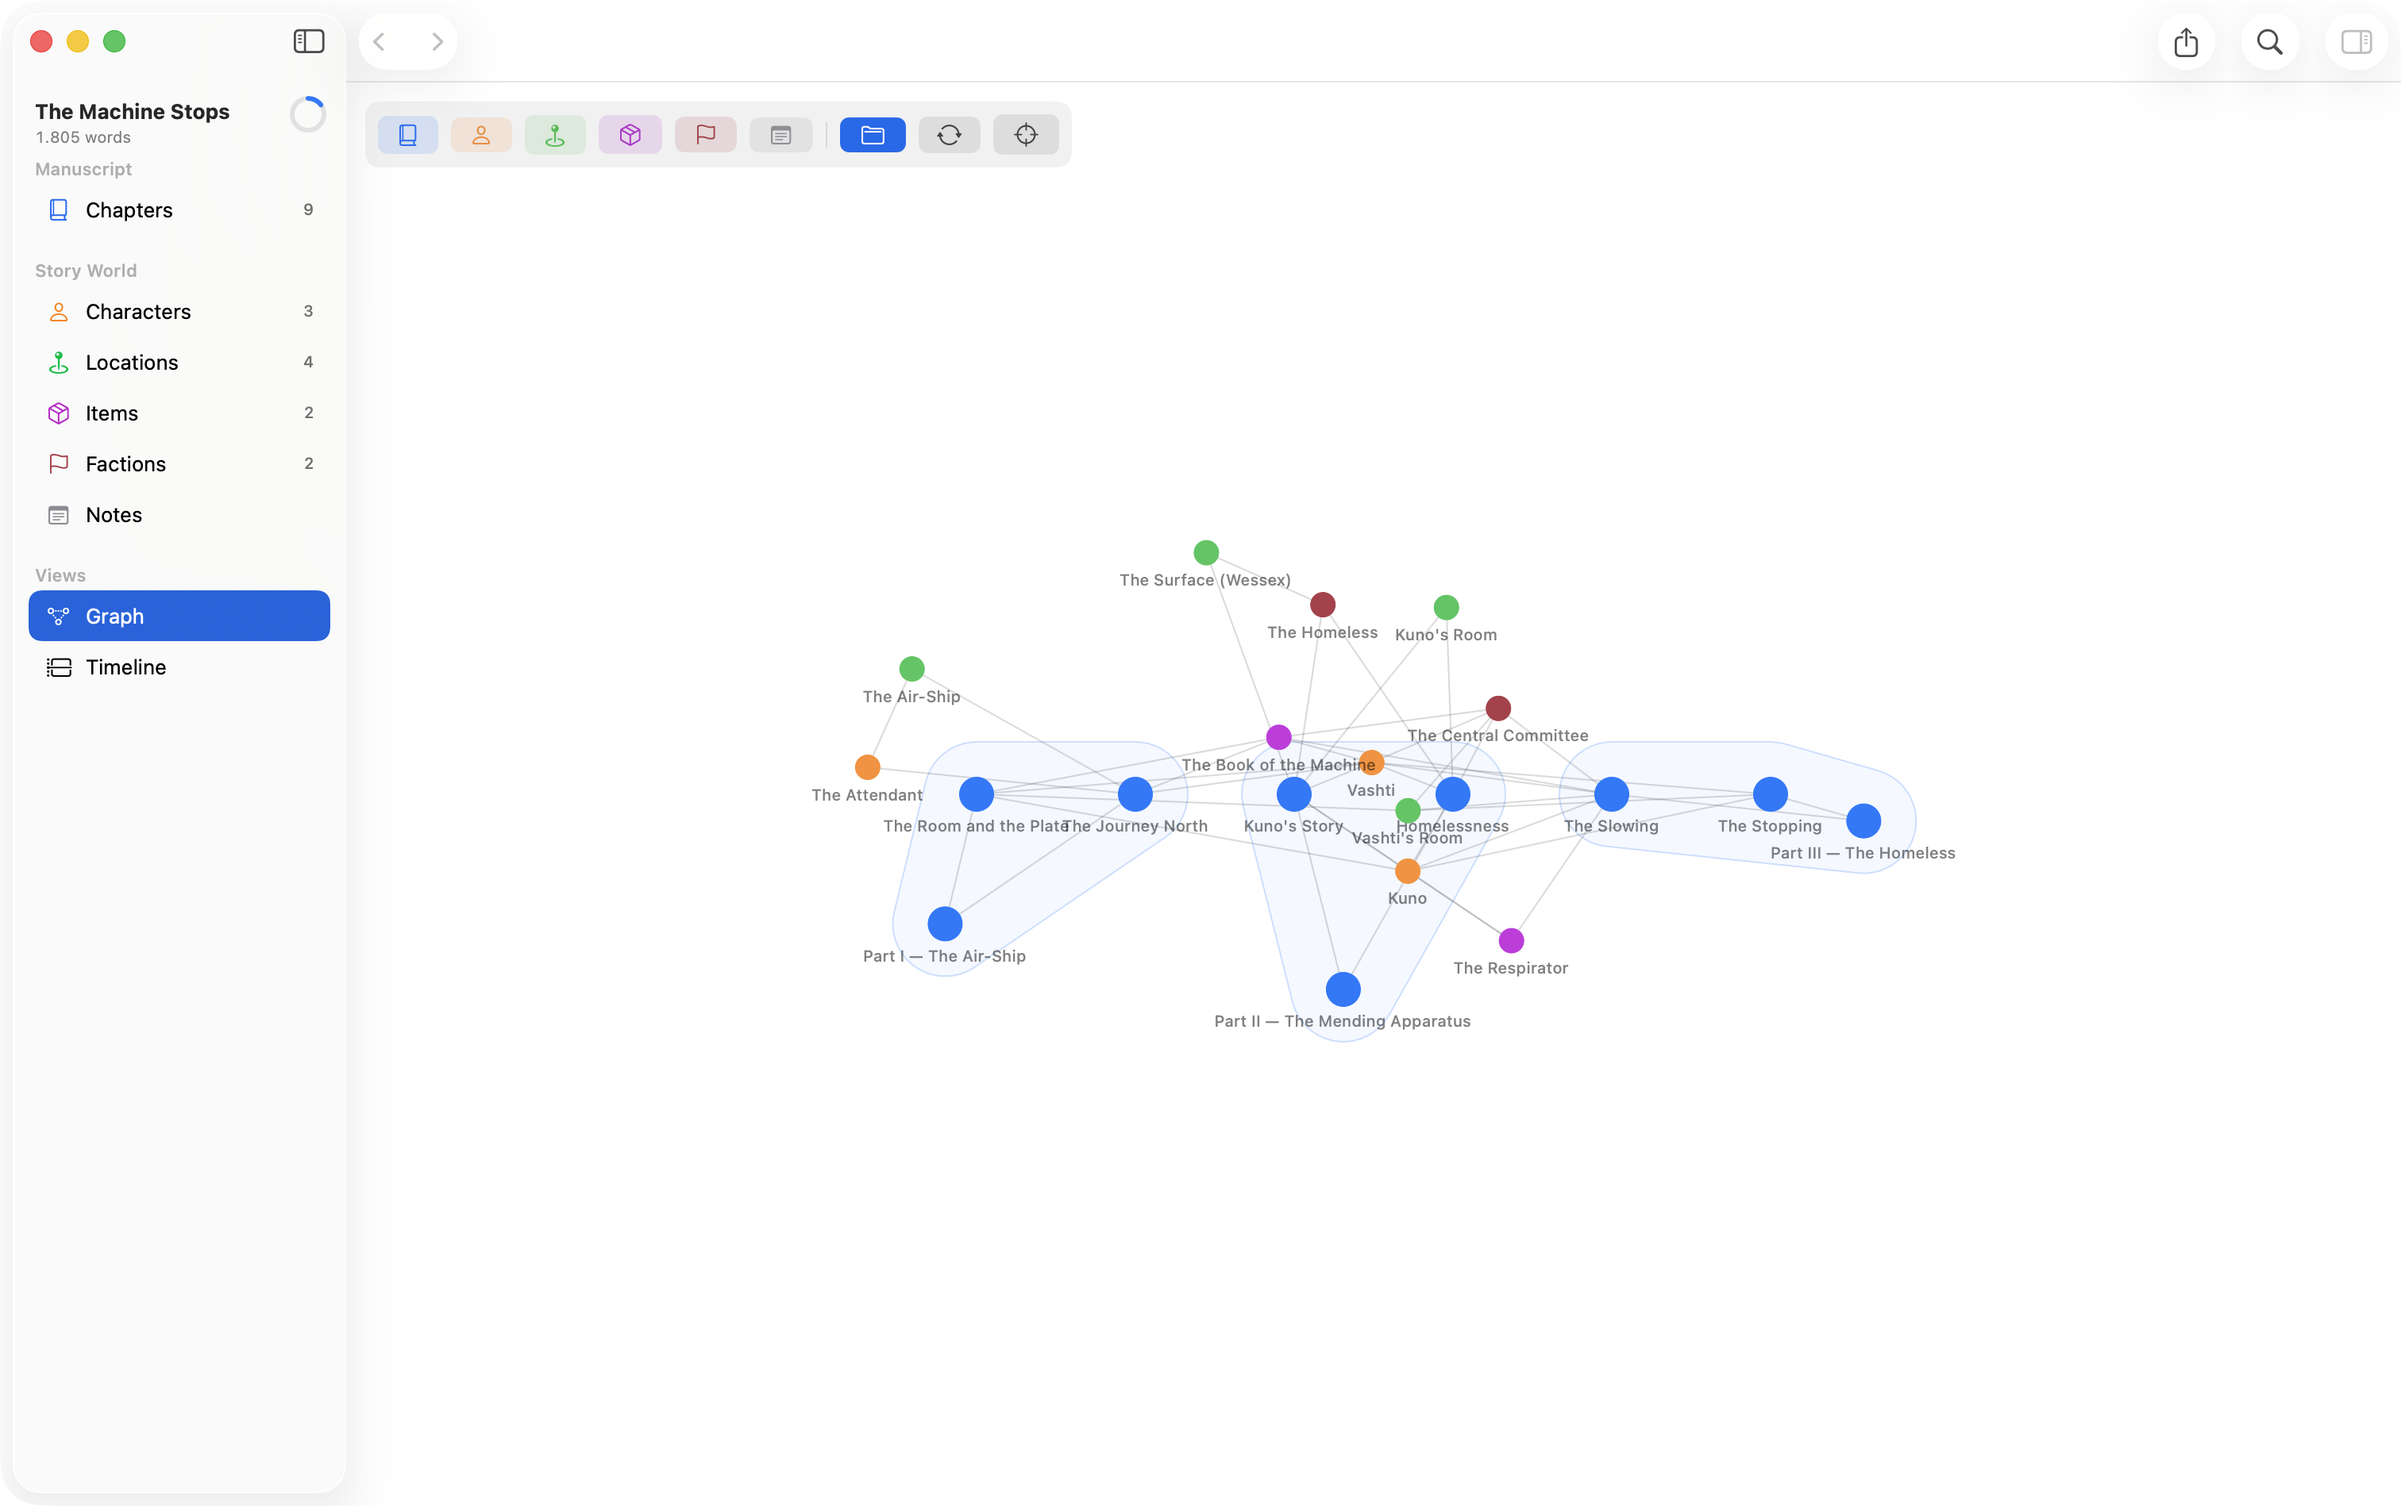
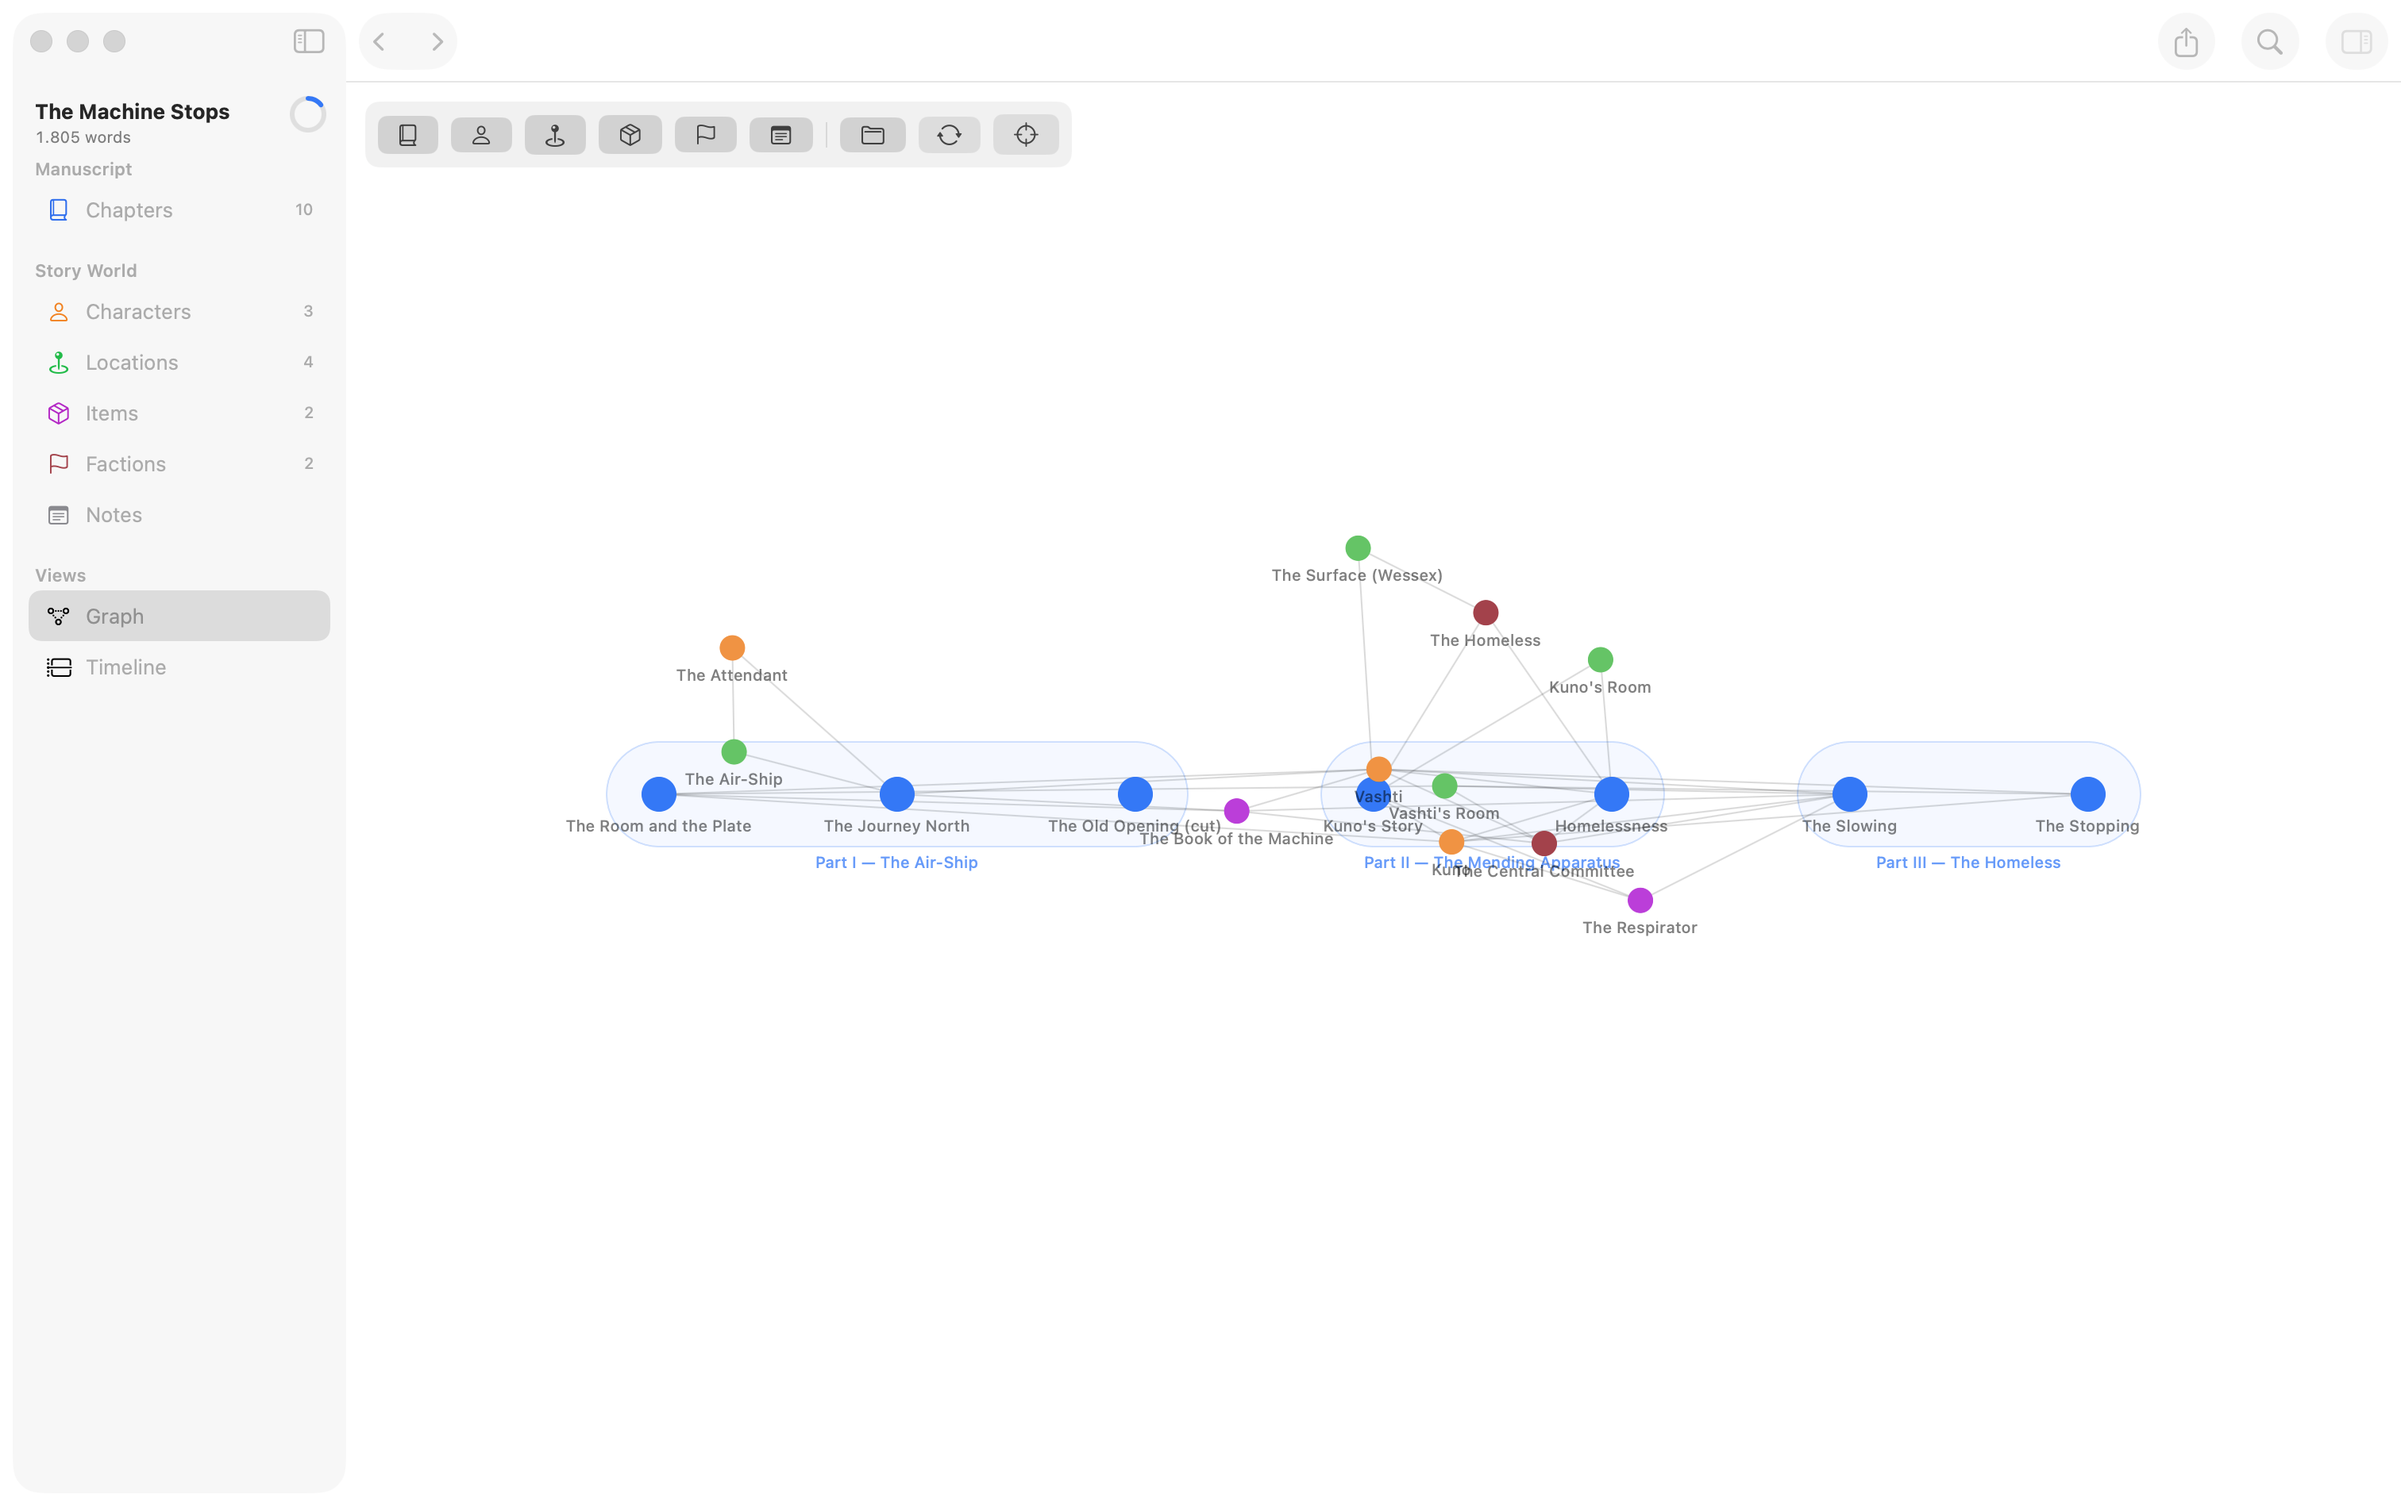
Document PDF export and graph glance panel; refresh screenshots
Export page covers the Markdown/PDF format option; graph page covers
labeled hulls without container nodes and click-to-glance. New graph
and welcome screenshots.

diff --git a/guide/graph.md b/guide/graph.md
@@ -7,9 +7,11 @@ The graph is a force-directed map of every entity and every reference between th
 ## Reading the graph
 
 - **The spine** — manuscript entities on the horizontal center line, left to right in reading order. A character whose edges all land on the right half of the spine doesn't appear until late in the book; you can see it without reading a page.
-- **Nodes** are entities, in their type's color (the example book's factions are the dark red nodes — a custom hex color).
-- **Edges** are references. Hover a node for a card with its reference count; click **Open** to jump to it.
-- **Group outlines** trace nested manuscript containers — you can literally see each part wrapping its chapters.
+- **Nodes** are entities, in their type's color (the example book's factions are the dark red nodes — a custom hex color). Manuscript containers draw no node of their own — they appear as their group's outline and label.
+- **Edges** are references.
+- **Group outlines** trace nested manuscript containers, each labeled with the container's name — you can literally see each part wrapping its chapters.
+
+Clicking a node shows its contents in the glance panel on the right — the same inspector the editor and timeline use (<kbd>⌘4</kbd> or the toolbar's sidebar button) — with an **Open** button to jump to the document. Double-clicking a node jumps straight there.
 
 ## Controls
 
